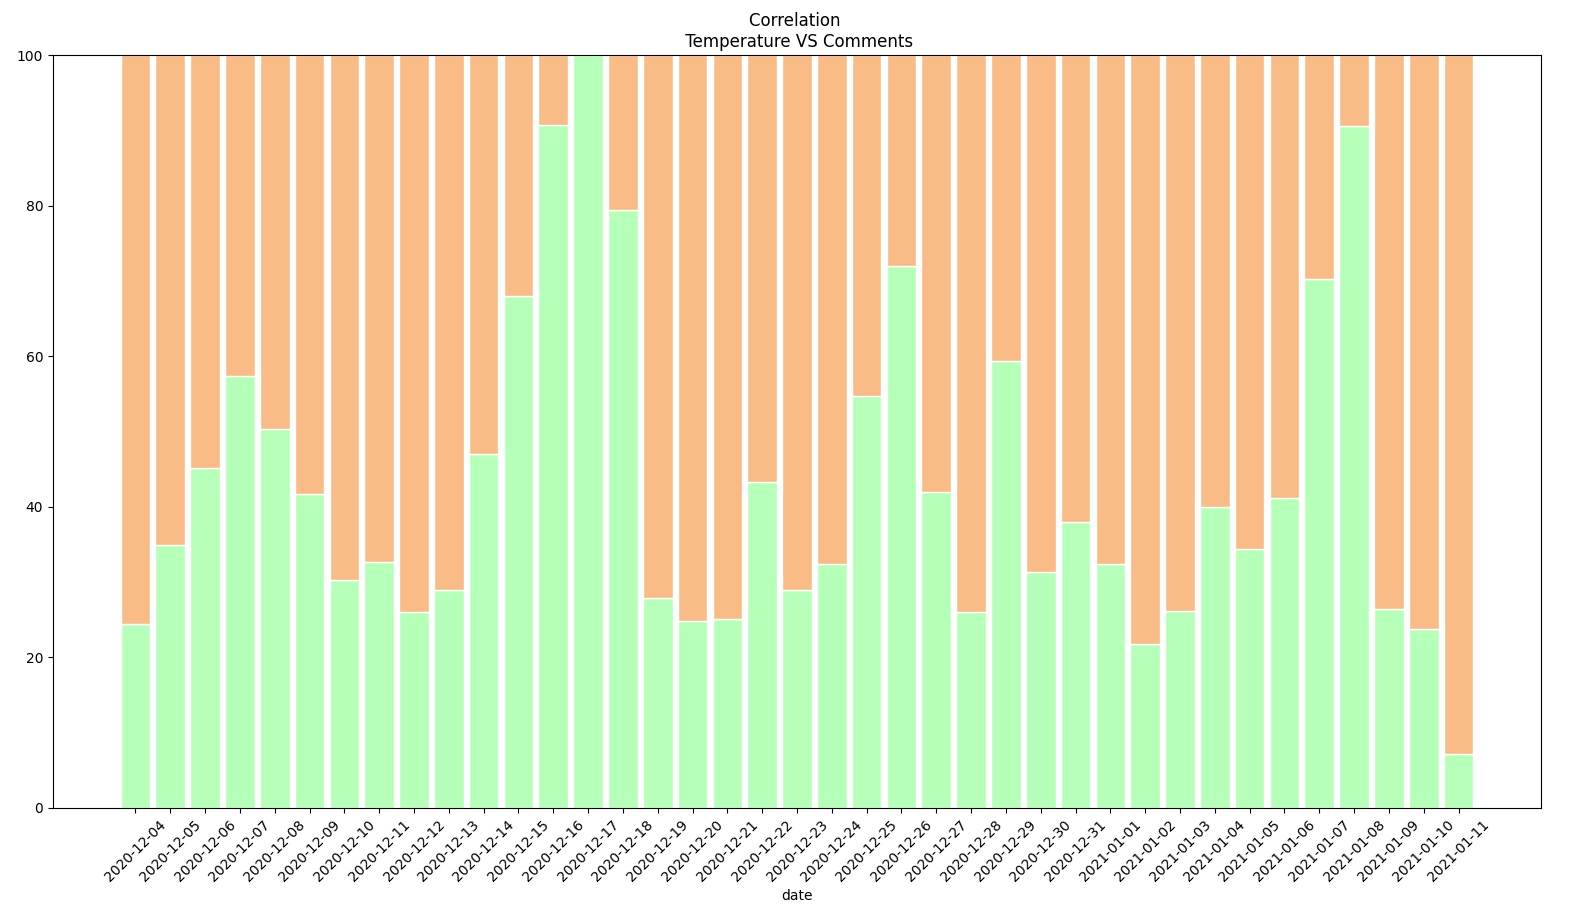
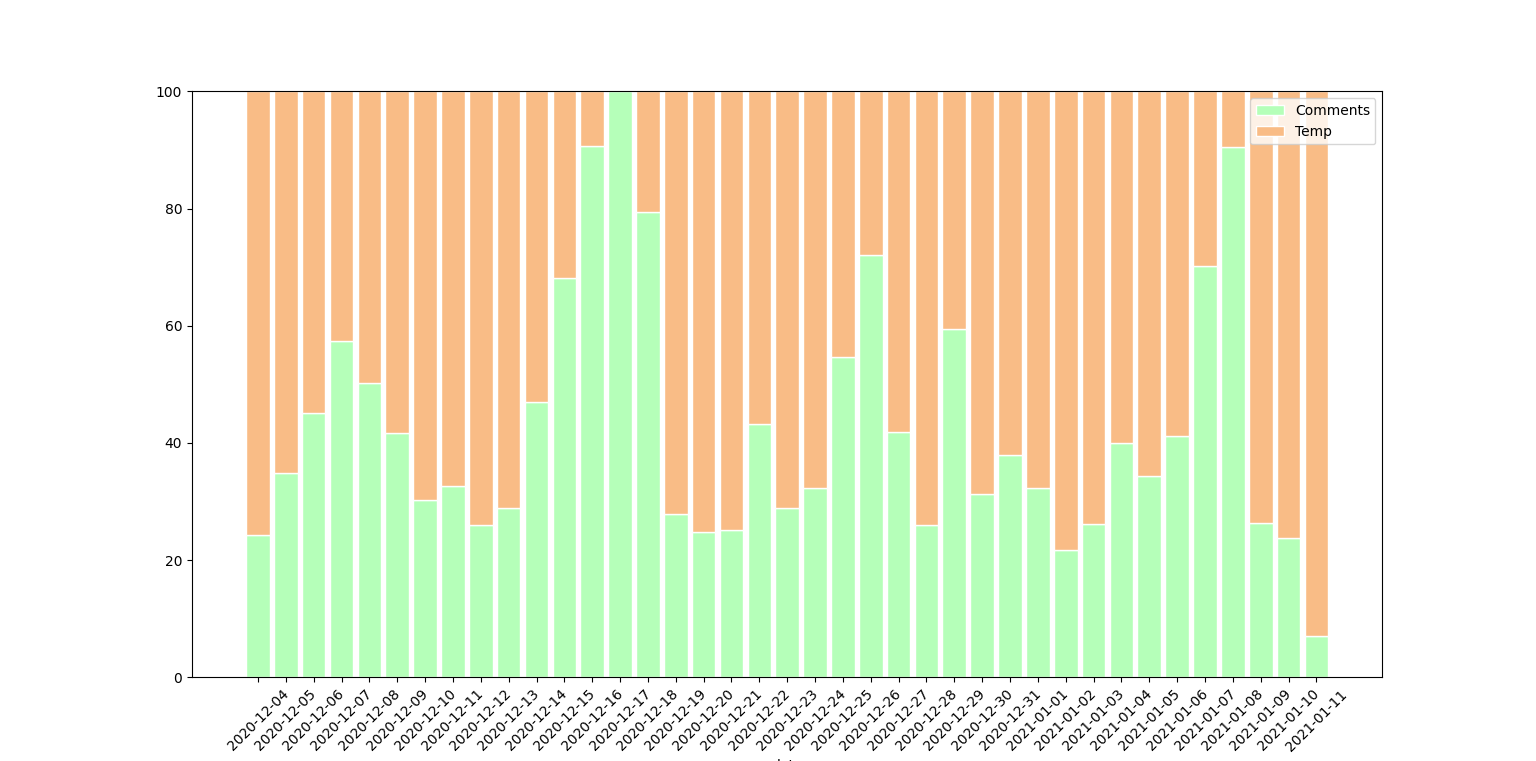
Add legend charts

diff --git a/main.py b/main.py
@@ -95,7 +95,8 @@ dfPostsSum = dfPostsSum.reset_index()
 
 # Showing temperature and comments counters
 fig, ax1 = plt.subplots()
-ax1.set_title("Correlation \n Temperature VS Comments")  # Add a title to the axes.
+
+# ax1.set_title("Correlation graph between\n Temperature and Comments")  # Add a title to the axes.
 plt.xticks(rotation=45)
 
 color1 = 'tab:red'
@@ -112,6 +113,7 @@ ax2.plot(dfPostsSum['date'], dfPostsSum['temp_avg'], label='TempAvg', color=colo
 ax2.tick_params(axis='y', labelcolor=color2)
 
 fig.tight_layout()  # otherwise the right y-label is slightly clipped
+plt.savefig(dataDir + "/correlation1")
 plt.show()
 
 
@@ -130,17 +132,17 @@ tempBars = [i / j * 100 for i, j in zip(dfPostsSum['temp_avg'], totals)]
 
 # plot
 barWidth = 0.85
-names = ('A', 'B', 'C', 'D', 'E')
 # Create comments Bars
-plt.bar(range(len(dfPostsSum)), commentBars, color='#b5ffb9', edgecolor='white', width=barWidth)
+plt.bar(range(len(dfPostsSum)), commentBars, color='#b5ffb9', edgecolor='white', width=barWidth, label='Comments')
 # Create temperature Bars
-plt.bar(range(len(dfPostsSum)), tempBars, bottom=commentBars, color='#f9bc86', edgecolor='white', width=barWidth)
+plt.bar(range(len(dfPostsSum)), tempBars, bottom=commentBars, color='#f9bc86', edgecolor='white', width=barWidth, label='Temp')
 
 # Custom x axis
 plt.xticks(range(len(dfPostsSum)), dfPostsSum['date'], rotation=45)
 plt.xlabel("date")
-
-plt.title("Correlation \n Temperature VS Comments")  # Add a title to the axes.
+plt.legend()
+# plt.title("Correlation graph between\n Temperature and Comments")  # Add a title to the axes.
+plt.savefig(dataDir + "/correlation2")
 
 # Show graphic
 plt.show()
